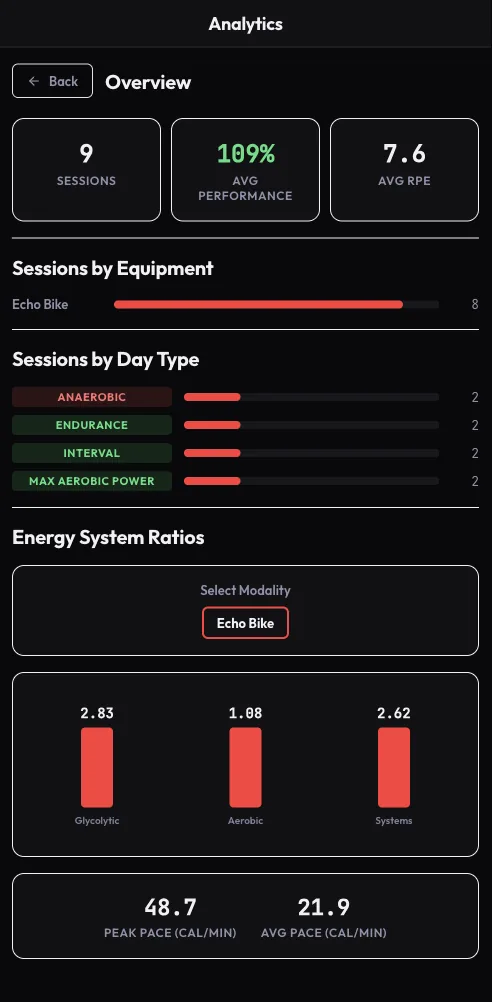
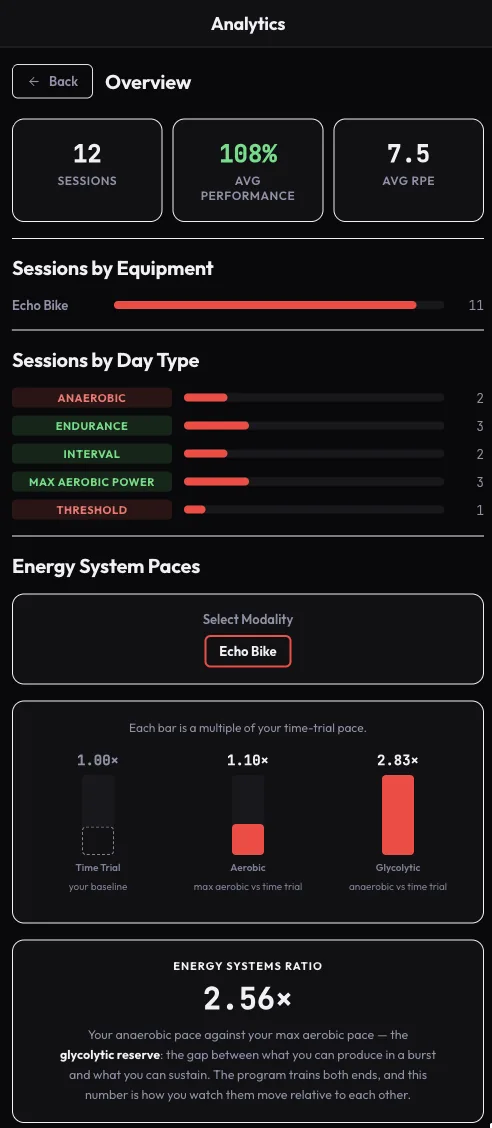
Engine walkthrough: re-capture the analytics overview closer
The old capture showed the pre-redesign Energy System Ratios card —
three equal-height bars and Systems drawn as a bar — a screen that no
longer exists in the app. The fresh capture shows the current rollup:
12 sessions at 108%, five day types including Threshold, and the new
Energy System Paces section with the 1.00x baseline and the glycolytic
reserve hero box. Caption and alt text updated to match the new numbers
(the old ones cited nine sessions split evenly).

Claude-Session: https://claude.ai/code/session_01A1HN2KJNvRQZpHV5XUiDz9

diff --git a/src/lib/examplesLibrary.ts b/src/lib/examplesLibrary.ts
@@ -207,10 +207,10 @@ export const EXAMPLE_WALKTHROUGHS: Partial<Record<ExamplesTab, ExampleWalkthroug
       },
       {
         image: '/images/engine-analytics-overview.webp',
-        alt: 'Analytics overview — 9 sessions at 109% average performance, sessions split evenly across day types, energy system ratios, and peak vs average pace',
+        alt: 'Analytics overview — 12 sessions at 108% average performance, five day types from anaerobic to threshold, and energy system paces with the 2.56× ratio',
         title: 'Where it all adds up',
         caption:
-          'Nine sessions in, this athlete is averaging 109% of their targets at RPE 7.6 — working slightly above prescription without redlining. Look at the day-type split: two sessions each across anaerobic, endurance, interval, and max aerobic power. The whole spectrum, trained evenly — that’s conditioning, not cardio.',
+          'Twelve sessions in, this athlete is averaging 108% of their targets at RPE 7.5 — working slightly above prescription without redlining. Five day types on the board, anaerobic through threshold, and the rollup ends in the energy-system read: pace bars against the time-trial baseline, and the glycolytic reserve. A season of Engine work, in one scroll.',
       },
     ],
   },
